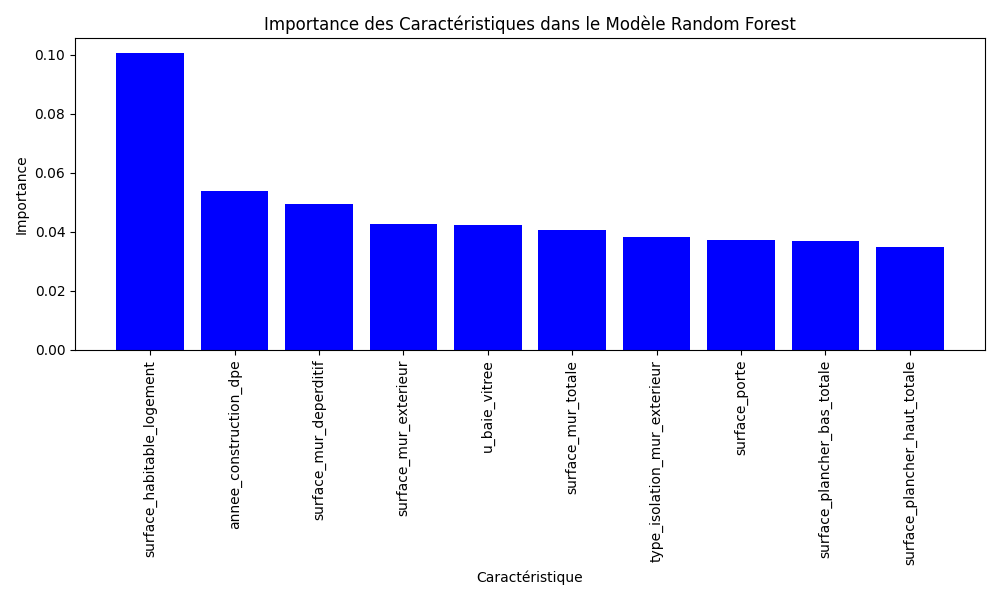
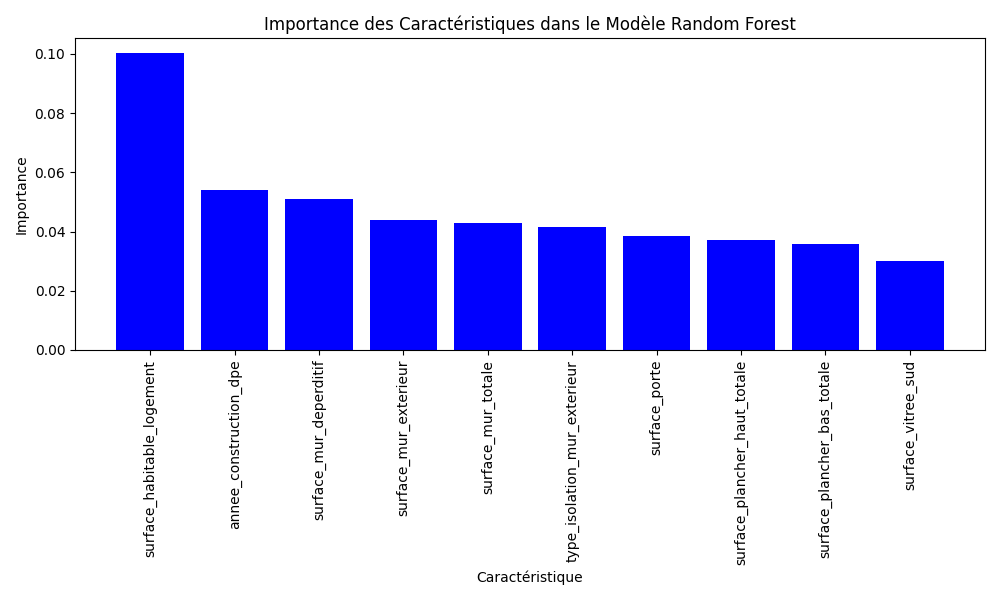
changement fonctionnelle pour modifier la variable changeante

diff --git a/src/models/train_model.py b/src/models/train_model.py
@@ -29,7 +29,7 @@ class Models:
         assert isinstance(dataframe, pd.DataFrame), "Les données d'entraînement doivent être sous forme de dataframe"
         assert isinstance(individual_features, pd.DataFrame), "Les données de test doivent être sous forme de dataframe"
         assert (len(dataframe.columns) or len(individual_features.columns)) >0, "votre dataframe est vide"
-        assert len(dataframe.columns) == (len(individual_features.columns)+1), "les bases de données n'ont pas le même nombre de variables,  utiliser l'algorithme de selection des variables"
+        assert len(dataframe.columns) == (len(individual_features.columns)), "les bases de données n'ont pas le même nombre de variables,  utiliser l'algorithme de selection des variables"
 
         assert all(ptypes.is_numeric_dtype(dataframe[col])for col in dataframe.columns), "Les types de données des colonnes du dataframe d'entrainement doivent être int ou float. utiliser l'algorithme de preprocessing"
         assert all(ptypes.is_numeric_dtype(individual_features[col])for col in individual_features.columns), " Les types de données des colonnes du dataframe de test doivent être int ou float. utiliser l'algorithme de preprocessing"
@@ -47,7 +47,7 @@ class Models:
         self.individual_features = individual_features
 
         # Variables explicatives de l'individu test
-        self.np_individual_features = individual_features.values
+        self.np_individual_features = individual_features.iloc[:, 1:].values
 
     def k_neighbors(self):
         """

diff --git a/src/data/clean.py b/src/data/clean.py
@@ -22,8 +22,7 @@ def clean(chemin):
         'type_production_energie_renouvelable', 'type_vitrage',
         'type_materiaux_menuiserie', 'type_gaz_lame', 'type_fermeture',
         'vitrage_vir', 'surface_vitree_nord', 'surface_vitree_sud',
-        'surface_vitree_ouest', 'surface_vitree_est', 'traversant',
-        'u_baie_vitree', 'facteur_solaire_baie_vitree', 'presence_balcon',
+        'surface_vitree_ouest', 'surface_vitree_est', 'traversant', 'facteur_solaire_baie_vitree', 'presence_balcon',
         'l_orientation_baie_vitree', 'type_isolation_mur_exterieur',
         'materiaux_structure_mur_exterieur',
         'epaisseur_structure_mur_exterieur', 'surface_mur_totale',

diff --git a/src/app.py b/src/app.py
@@ -46,7 +46,7 @@ def app():
     #valeur prédite du k_neighbors
     cpp_kneigh.inverse_transform(individual)
     individual = individual.iloc[:,0].values.flatten()[0]
-    chemin_fichier = os.path.join('database/processed', 'prediction.txt')
+    chemin_fichier = os.path.join('src/data/database', 'prediction.txt')
 
     # Ouvrez le fichier en mode écriture (w), s'il n'existe pas, il sera créé
     with open(chemin_fichier, 'w') as fichier_texte:

diff --git a/src/models/selection.py b/src/models/selection.py
@@ -42,7 +42,7 @@ def select_variables(dataframe, nb_feature):
     independent_variable = dataframe.iloc[:, 1:]
 
     # Entraînement d'un modèle Random Forest
-    rf_model = RandomForestClassifier(n_estimators=100, random_state=42)
+    rf_model = RandomForestClassifier(n_estimators=50, random_state=42)
     rf_model.fit(independent_variable.values, dependent_variable.values)
 
     # Calcul des importances des caractéristiques
